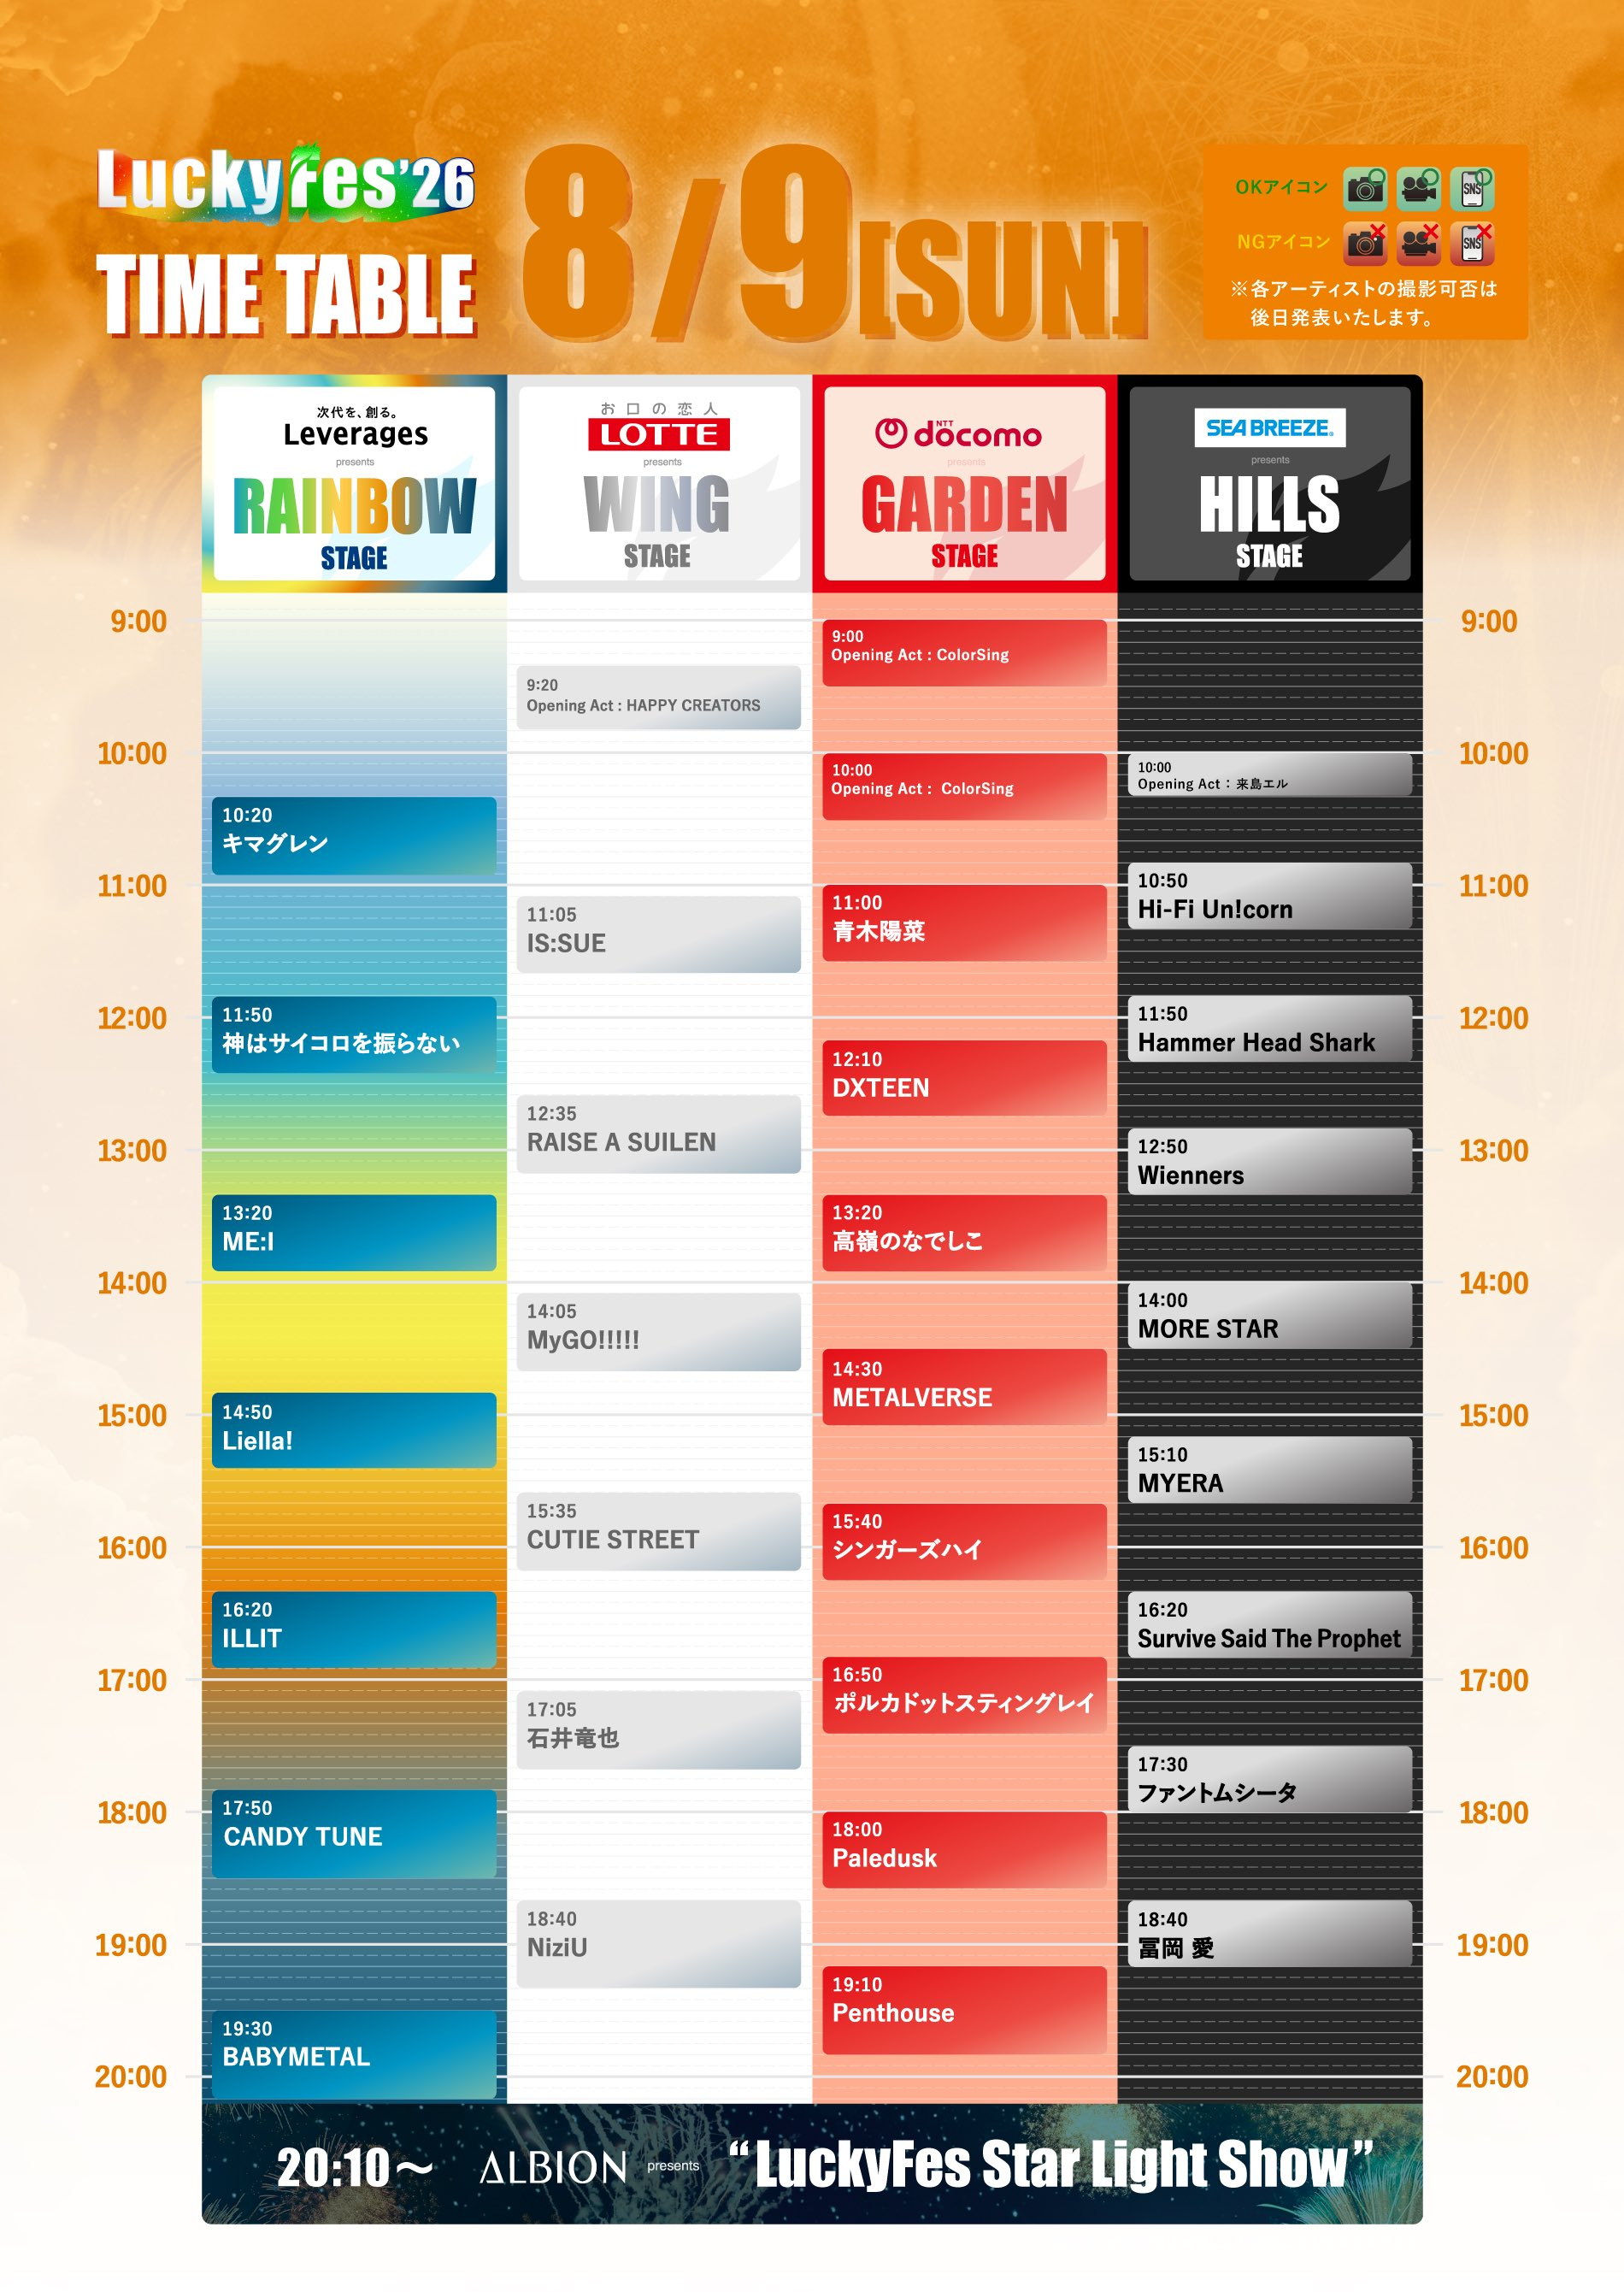
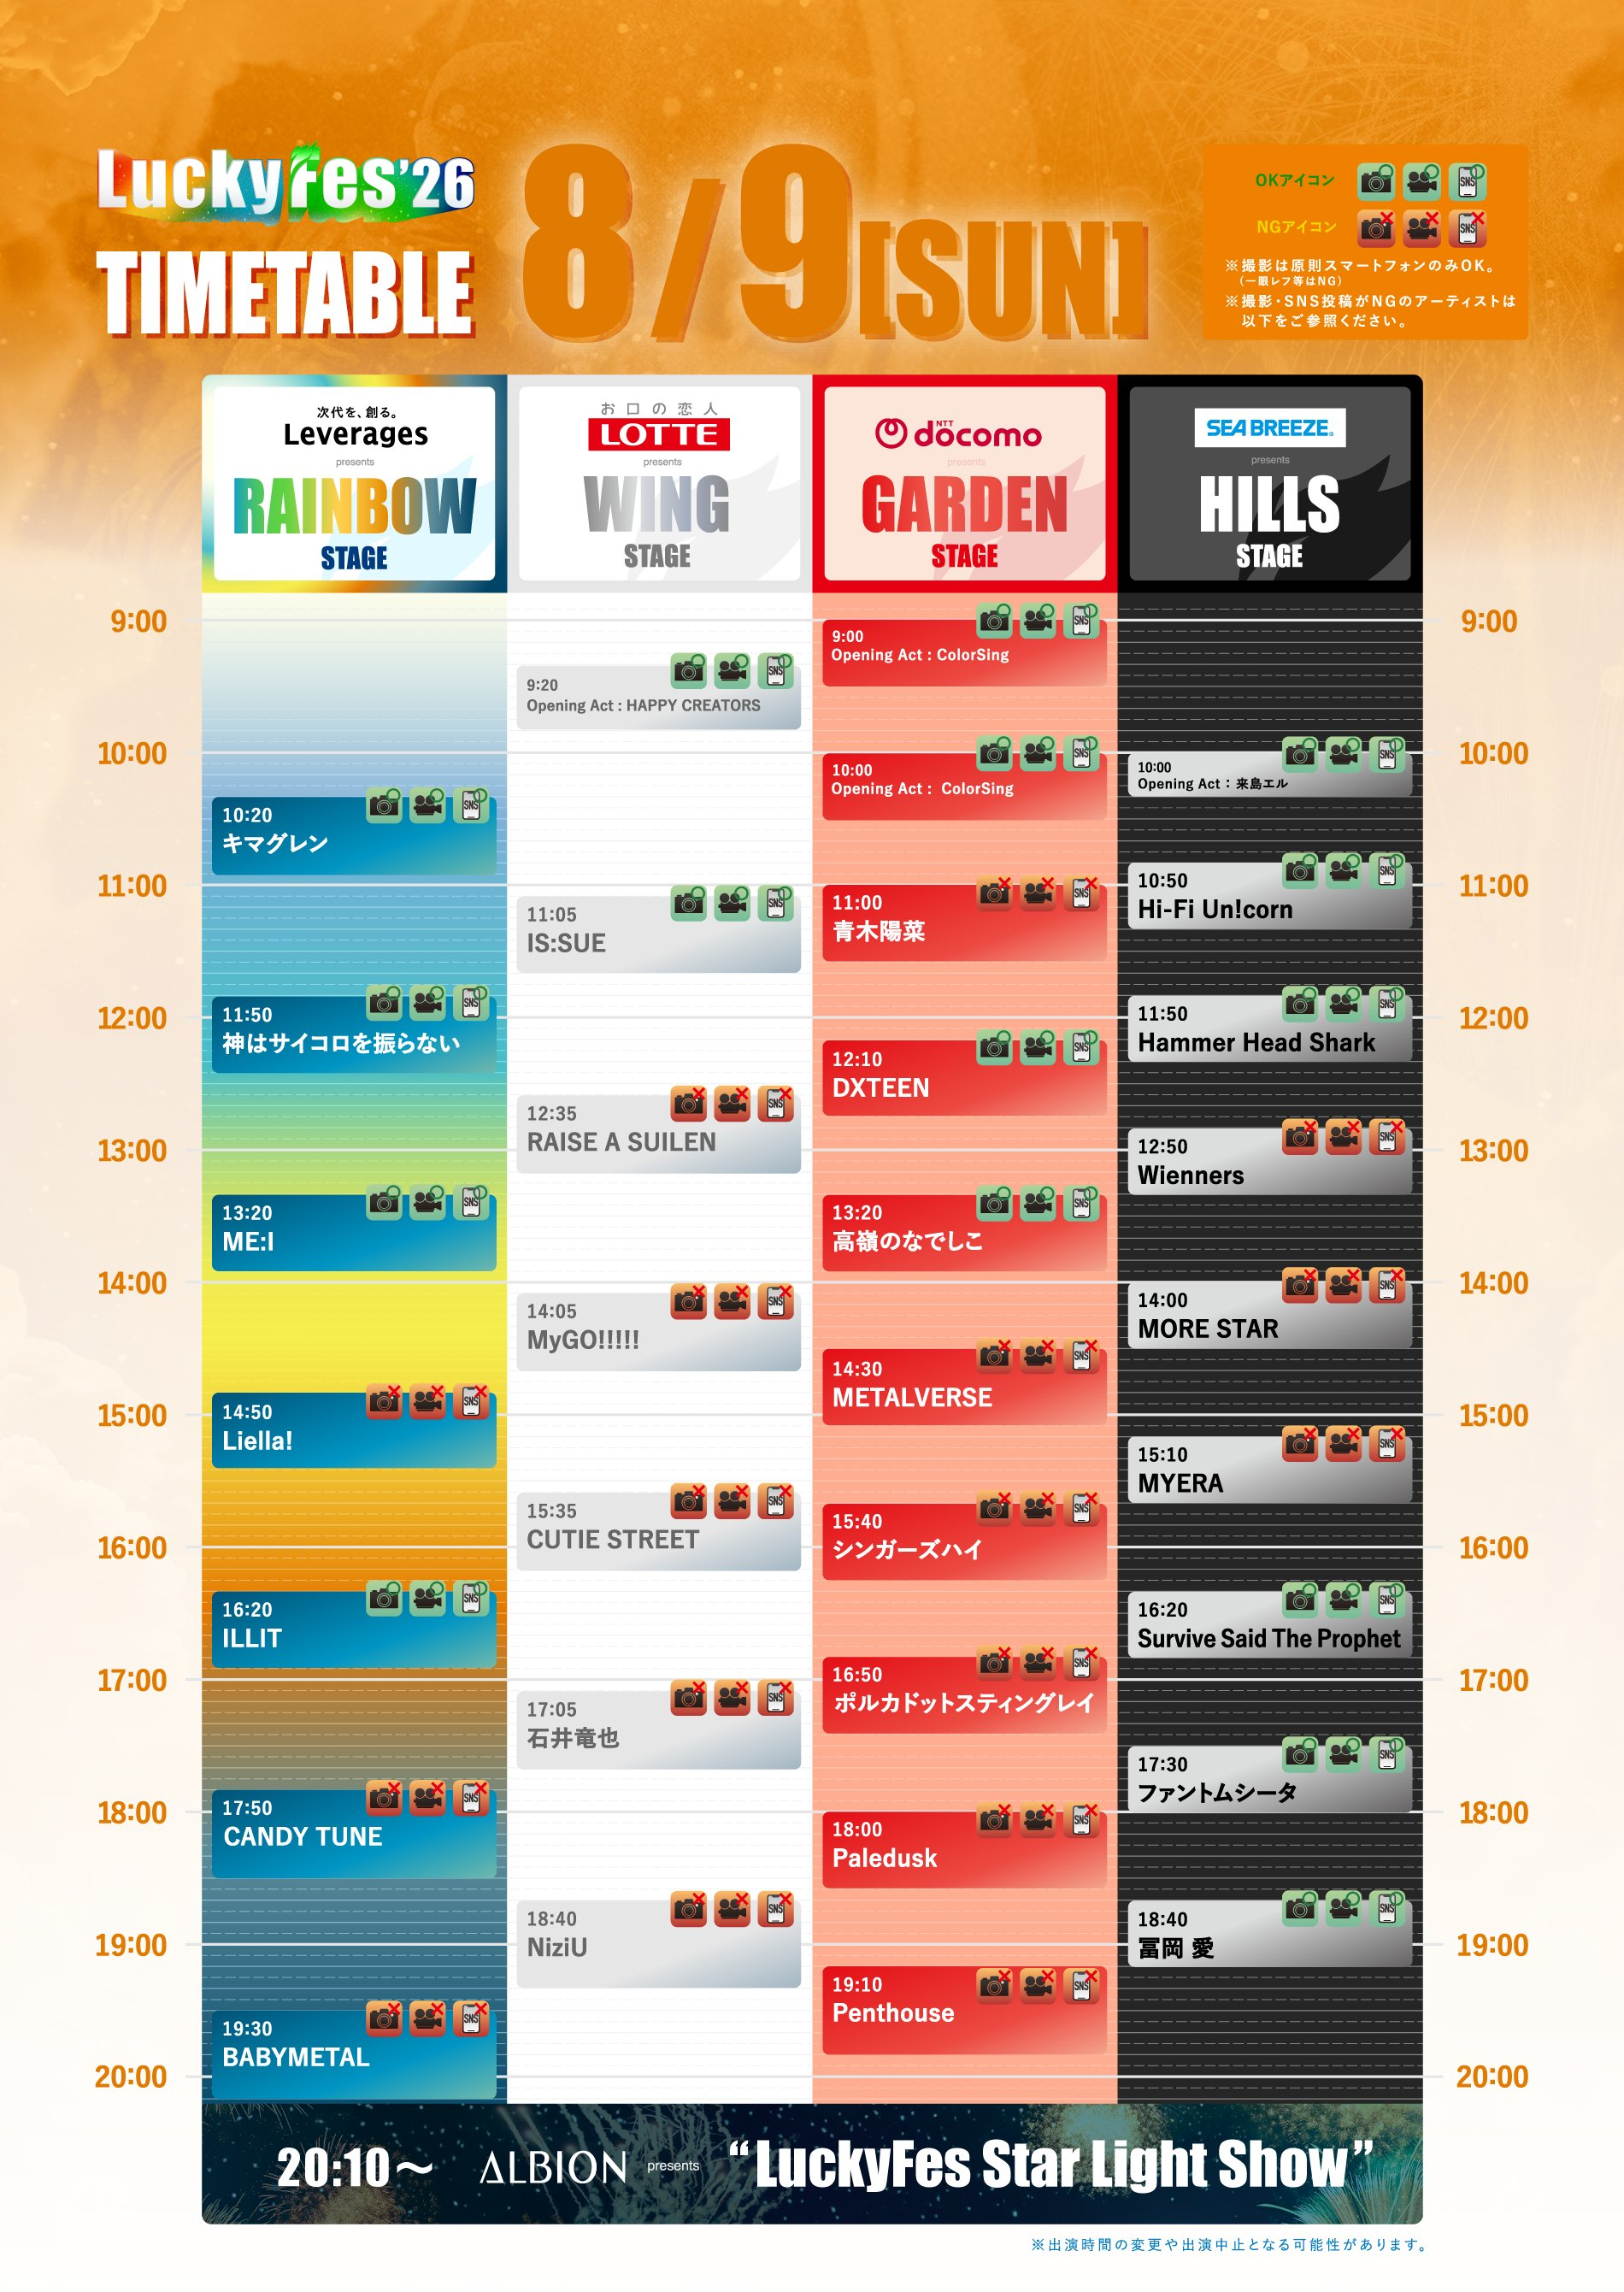
feat: LuckyFes'26 のタイテ画像を更新

diff --git a/app/features/events/2026/08/2026-08-09_LuckyFes'26.ts b/app/features/events/2026/08/2026-08-09_LuckyFes'26.ts
@@ -18,7 +18,7 @@ export const meta: EventMetaDescriptor = {
     },
     {
       path: "/events/2026/2026-08-09_LuckyFes'26_タイムテーブル.jpg",
-      ref: "https://x.com/takanenofficial/status/2064565863517474972",
+      ref: "https://x.com/luckyfm_fes/status/2074327548327338339",
       tags: ["timetable"],
     },
   ],
@@ -41,12 +41,13 @@ export const meta: EventMetaDescriptor = {
     setlist: [],
     url: "",
   },
-  updatedAt: "2026-06-10",
+  updatedAt: "2026-07-09",
 };
 
 export const content = /* md */ `
   ## リンク
 
+  - [ステージ撮影・SNS投稿ルール公開 - LuckyFes X](https://x.com/luckyfm_fes/status/2074327548327338339)
   - [タイムテーブル公開 - 公式 X](https://x.com/takanenofficial/status/2064565863517474972)
   - [告知 - 公式 X](https://x.com/takanenofficial/status/2031222538442014861)
 `;